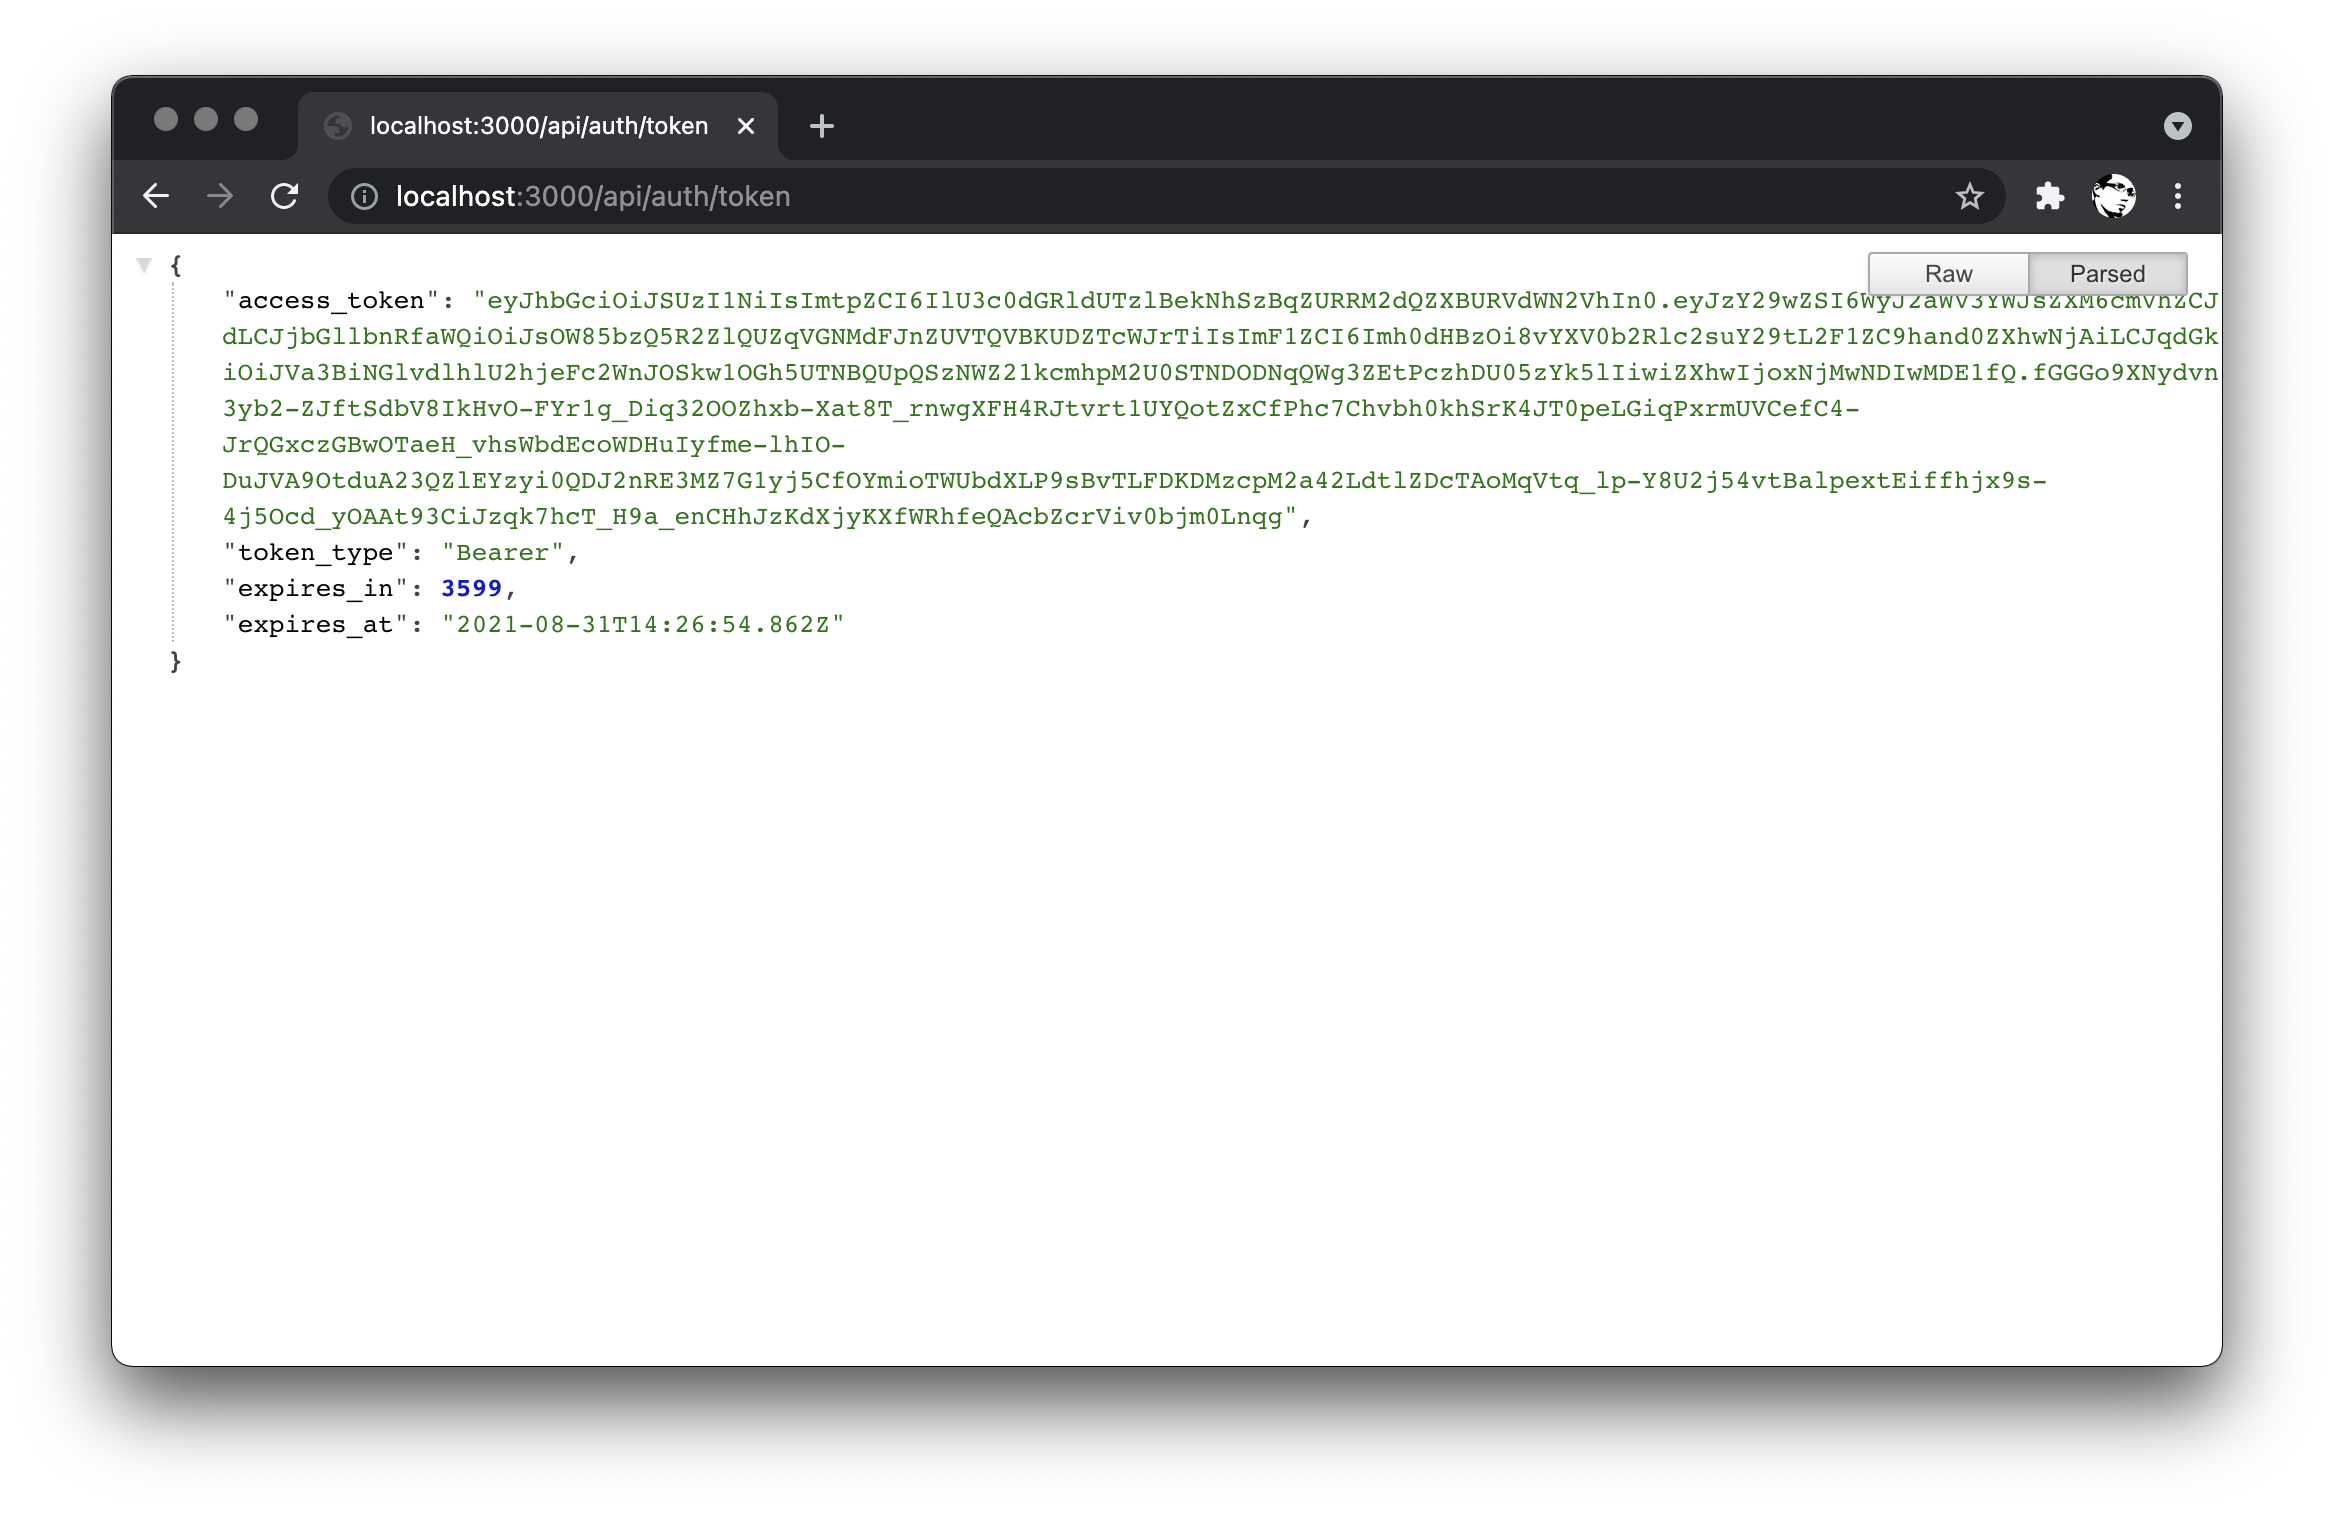
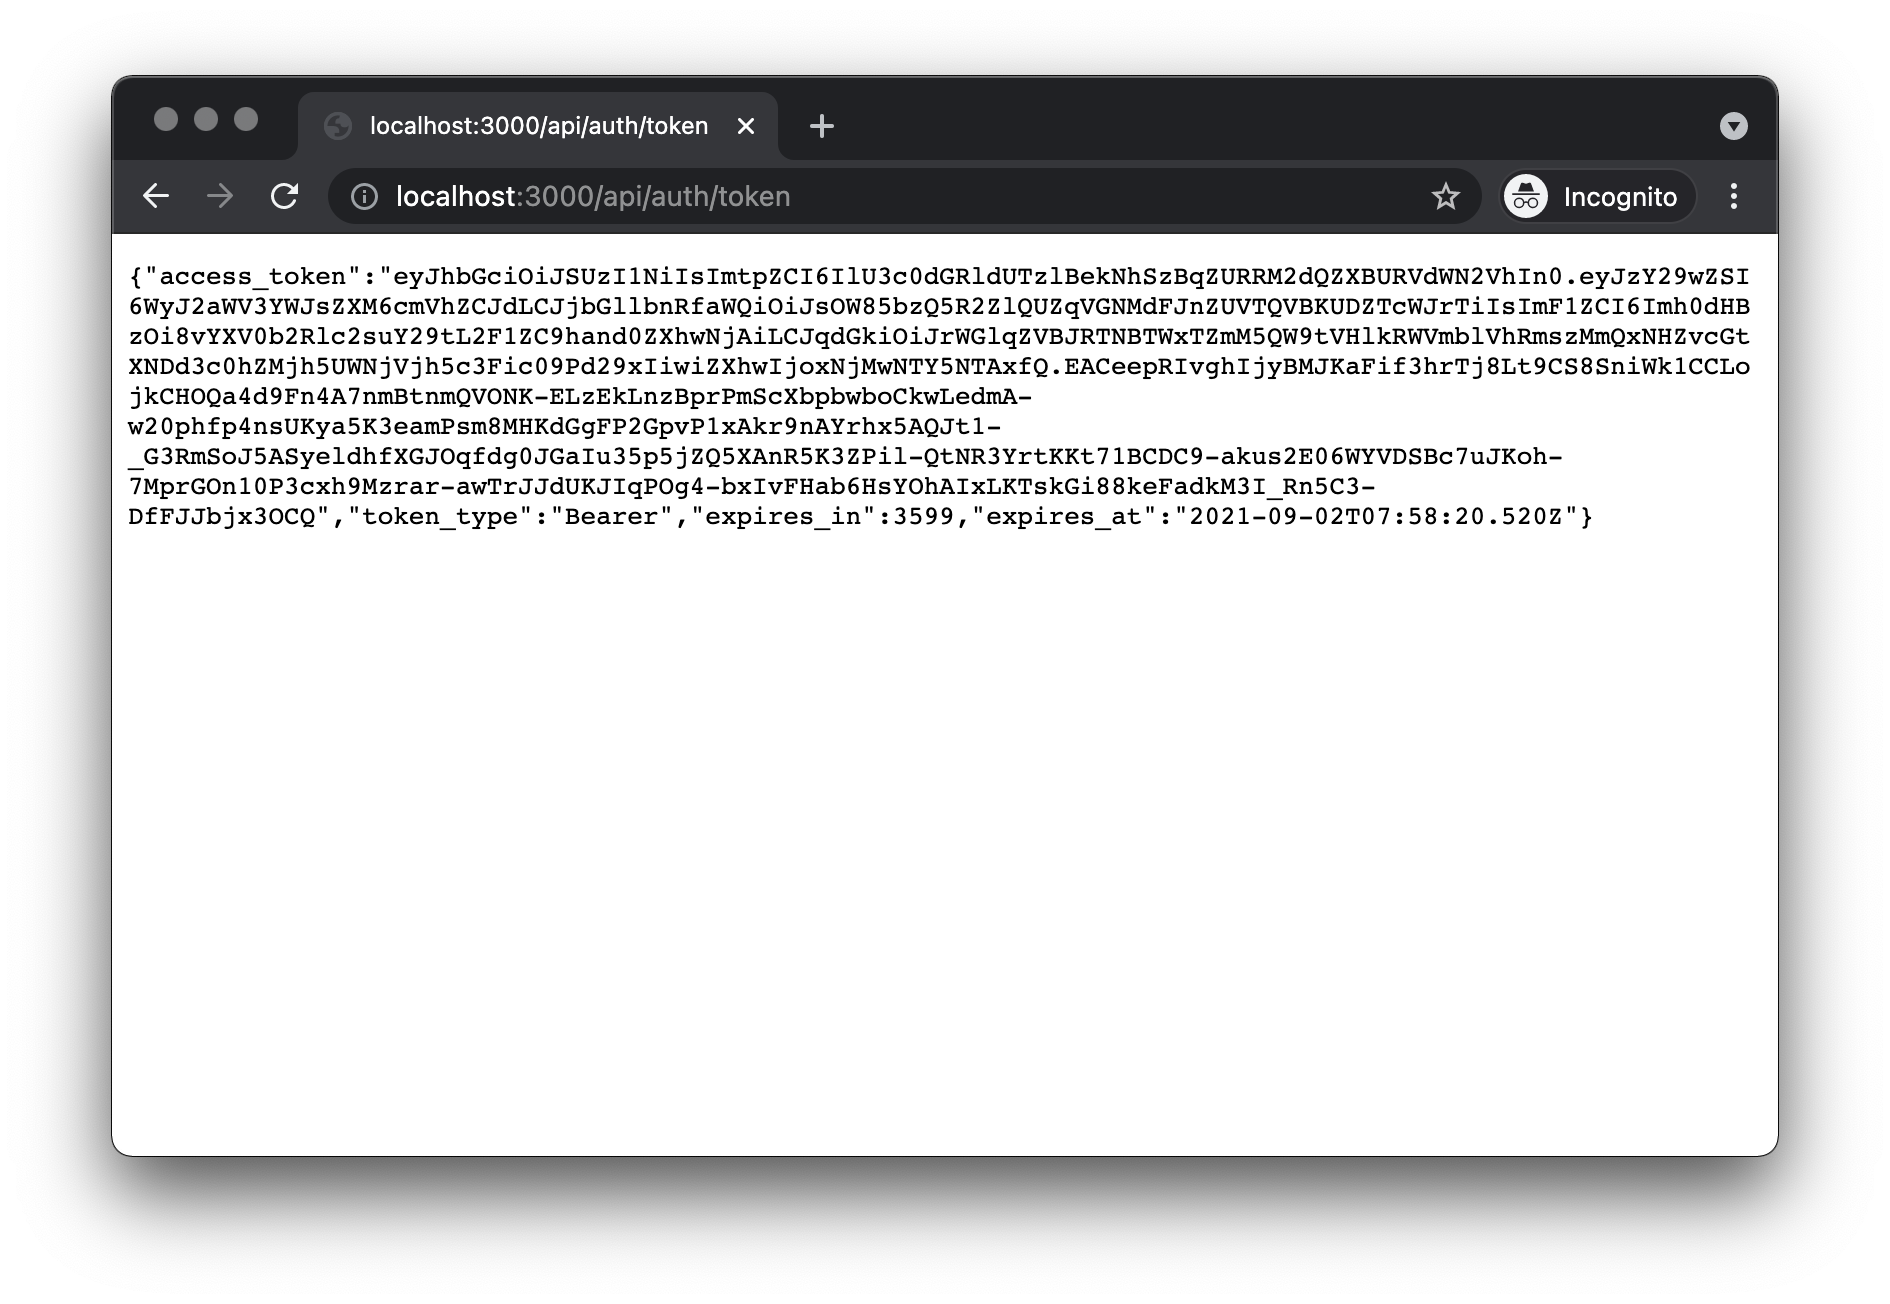
Updated images of the Simple Viewer tutorial.

Changed region(s): [[0.0312, 0.0307, 0.9677, 0.9509], [0.8116, 0.3681, 0.8429, 0.3988]]

diff --git a/docs/tutorials/simple-viewer/nodejs/server.md b/docs/tutorials/simple-viewer/nodejs/server.md
@@ -43,7 +43,7 @@ Finally, let's create a couple of subfolders in your project folder that we're g
 - `routes` - this is where we're going to implement all the server endpoints
 - `services` - here we're going to keep all the server-side logic that can be shared by different endpoints
 
-> TODO: add a screenshot of the folder structure
+![Folder Structure](./folder-structure.png)
 
 ## Create a basic server
 
@@ -85,5 +85,8 @@ npm start
 ```
 
 Then open your browser and navigate to http://localhost:3000. The server should respond
-with `Cannot GET /` because we haven't added any logic to it just yet. That's going to be
-the topic of [Step 2](./authentication).
+with `Cannot GET /` because we haven't added any logic to it just yet.
+
+![Empty Response](./empty-response.png)
+
+That's going to be the topic of step 2 - [Authentication](./auth).

diff --git a/docs/tutorials/simple-viewer/dotnet/server.md b/docs/tutorials/simple-viewer/dotnet/server.md
@@ -47,7 +47,7 @@ Finally, let's create a couple more subfolders in your project folder that we're
 - `Models` - here we're going to keep all the server-side logic that can be shared by different endpoints
 - `wwwrooot` - this is where we're going to put all the client side assets (HTML, CSS, JavaScript, images, etc.)
 
-> TODO: add a screenshot of the folder structure
+![Folder Structure](./folder-structure.png)
 
 ## Create a basic server
 
@@ -154,4 +154,4 @@ dotnet run
 
 When you navigate to https://localhost:5001 in your browser, you should get a 404 response
 because we haven't implemented any server logic yet. That's going to be the topic of the next
-step - [Authentication](./authentication).
+step - [Authentication](./auth).

diff --git a/docs/tutorials/simple-viewer/dotnet/viewer.md b/docs/tutorials/simple-viewer/dotnet/viewer.md
@@ -237,3 +237,5 @@ with a dropdown in the top-right corner that will eventually get populated with 
 in your configured bucket, and with a button for uploading new models. And as soon as you select one
 of the options from the dropdown, the corresponding model will get loaded in the viewer that occupies
 the rest of the webpage.
+
+![Final App](./final-app.png)

diff --git a/docs/tutorials/simple-viewer/nodejs/viewer.md b/docs/tutorials/simple-viewer/nodejs/viewer.md
@@ -237,3 +237,5 @@ with a dropdown in the top-right corner that will eventually get populated with 
 in your configured bucket, and with a button for uploading new models. And as soon as you select one
 of the options from the dropdown, the corresponding model will get loaded in the viewer that occupies
 the rest of the webpage.
+
+![Final App](./final-app.png)

diff --git a/docs/tutorials/simple-viewer/dotnet/data.md b/docs/tutorials/simple-viewer/dotnet/data.md
@@ -522,4 +522,4 @@ to your Forge client ID.
 When you navigate to https://localhost:5001/api/models in the browser, the server should respond with
 a JSON list with names and URNs of all objects available in your configured bucket.
 
-> TODO: screenshot
+![Server Response](./data-response.png)

diff --git a/docs/tutorials/simple-viewer/dotnet/auth.md b/docs/tutorials/simple-viewer/dotnet/auth.md
@@ -213,4 +213,4 @@ dotnet run
 If the application start successfully and you navigate to https://localhost:5001/api/auth/token
 in the browser, the server should respond with a JSON object containing the access token data.
 
-> TODO: screenshot
+![Server Response](./auth-response.png)
